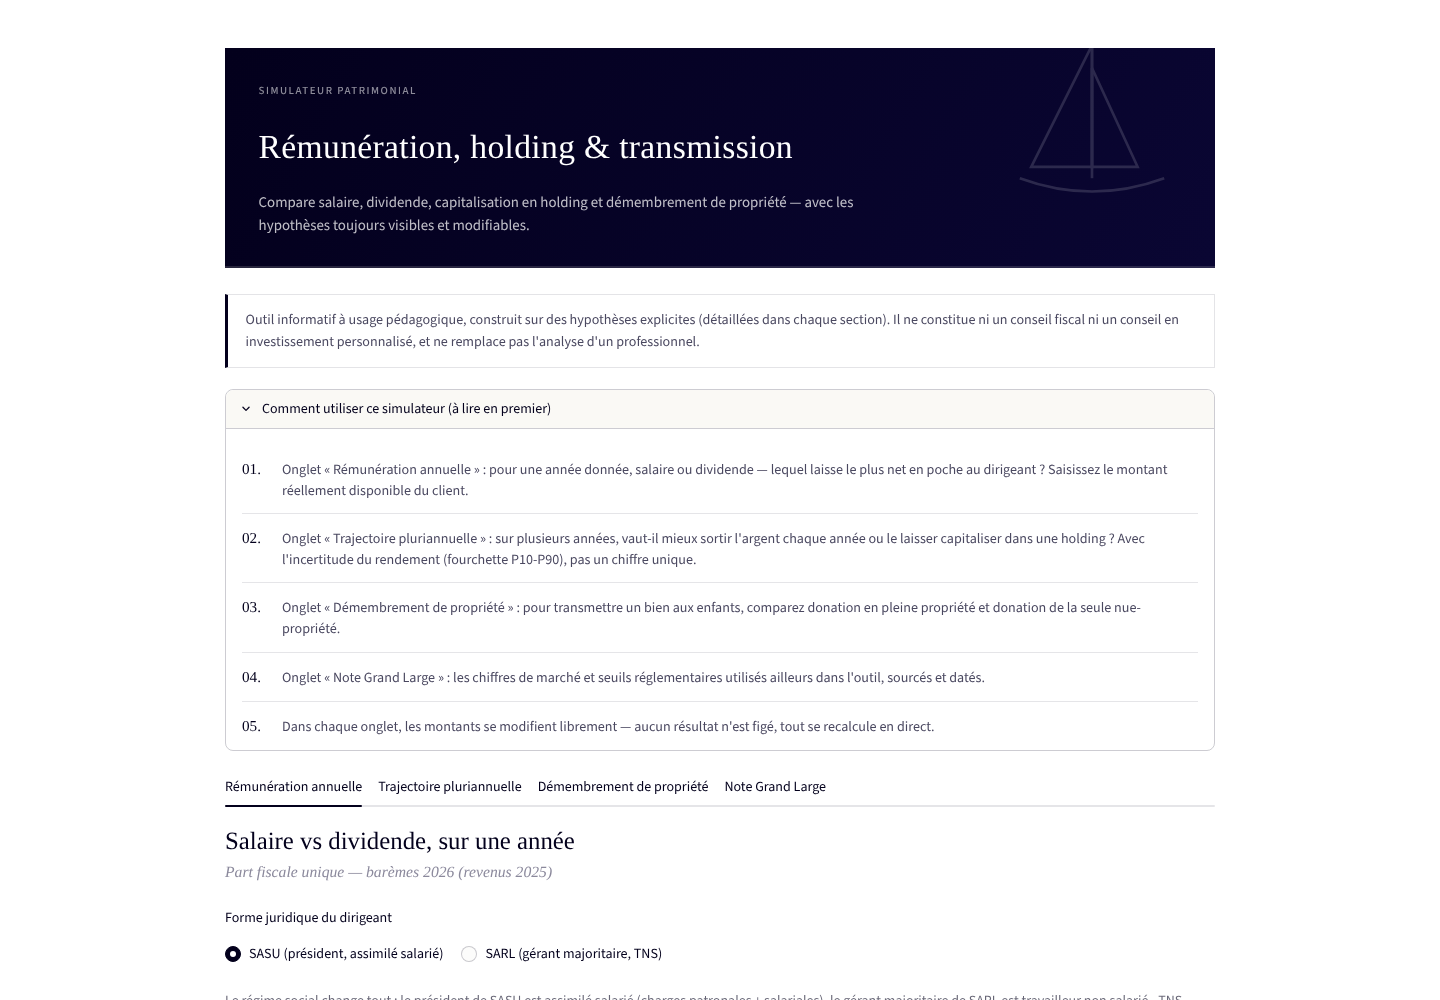
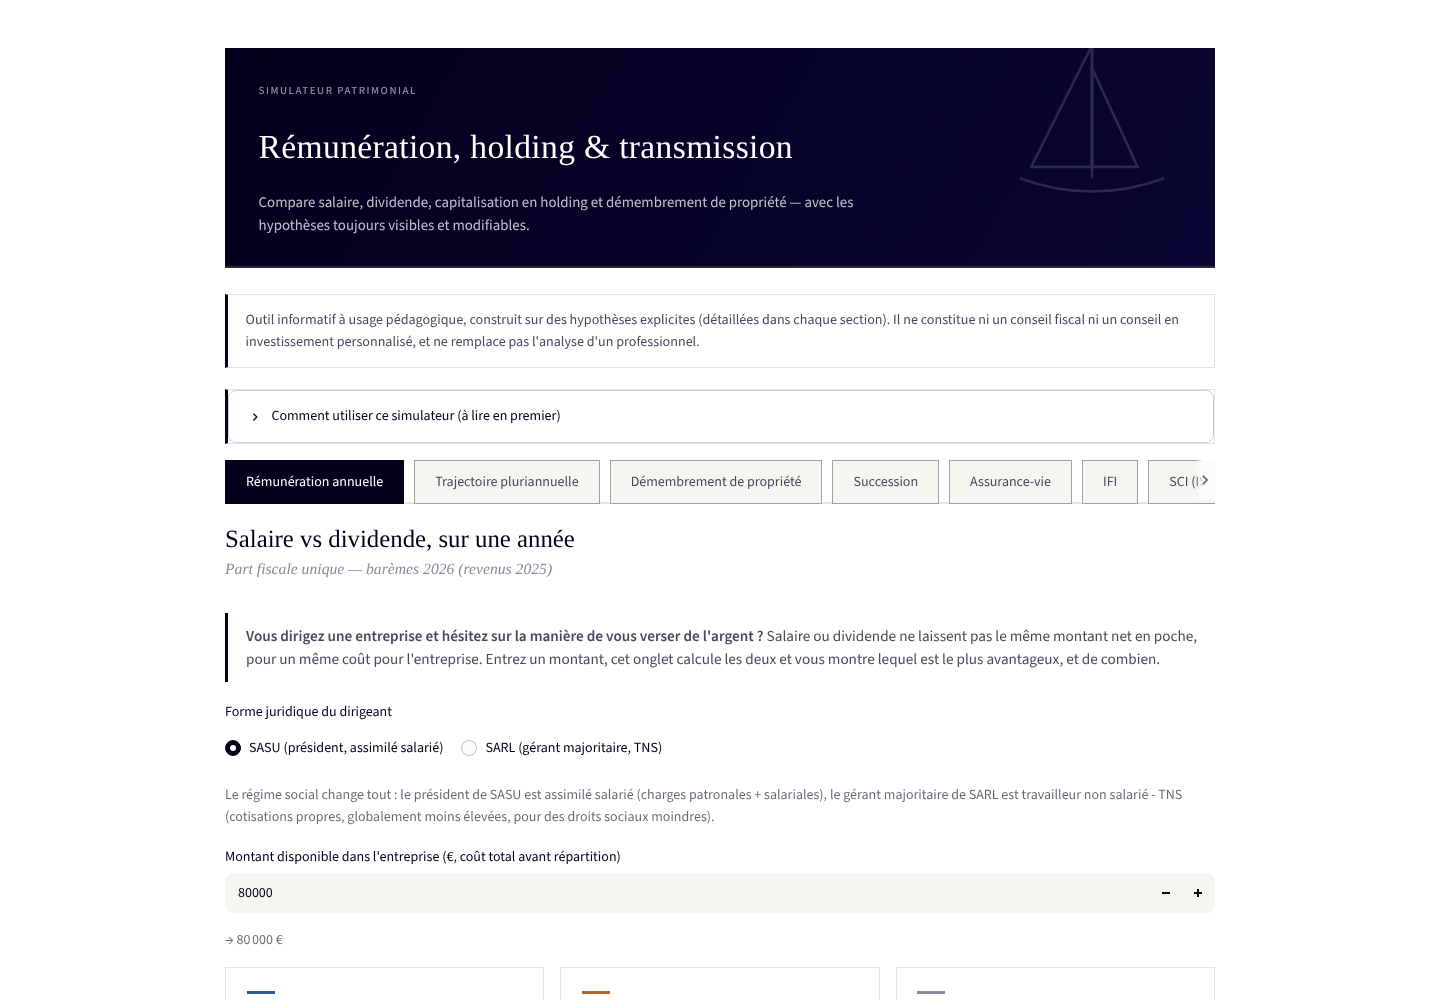
Régénère les captures d'écran pour les 9 onglets actuels
Les 4 captures existantes dataient d'avant l'ajout du cinquième
module et du nouveau style d'onglets (pastilles, texte agrandi) -
elles ne correspondaient plus à l'app réelle. Recapture les 9 onglets
dans un même état cohérent (introduction repliée pour montrer le vrai
contenu plus tôt) et ajoute les captures manquantes : succession,
assurance-vie, IFI, SCI (IS vs IR), PER. Met à jour les références
dans le README en conséquence.

Claude-Session: https://claude.ai/code/session_013d8botr14ACMNDxZSsXeTk

Changed region(s): [[0.1562, 0.403, 0.8438, 0.961], [0.1562, 0.992, 0.8125, 1.0], [0.3438, 0.93, 0.4375, 0.961]]

diff --git a/README.md b/README.md
@@ -42,22 +42,32 @@ Donation en pleine propriété vs donation de la nue-propriété (usufruit conse
 ### 4 — Succession
 Au décès (hors donation), les droits dus dépendent avant tout du lien de parenté avec le défunt : conjoint survivant ou partenaire pacsé totalement exonéré (article 796-0 bis du CGI), enfant au même barème et au même abattement de 100 000 € qu'une donation en ligne directe (réutilise directement le barème de `demembrement.py` plutôt que d'en dupliquer un second), frère/sœur (abattement de 15 932 €, 35 %/45 %), neveu/nièce (abattement de 7 967 €, taux fixe de 55 %), et tiers sans lien de parenté (abattement de 1 594 €, taux fixe de 60 %). Un graphique en barres horizontales compare, sur une même masse successorale, ce qu'il resterait net selon qui hérite — l'écart entre un conjoint (tout) et un tiers (40 % à peine) est souvent le chiffre qui parle le plus à un client.
 
+![Succession](screenshots/05_succession.png)
+
 ### 5 — Assurance-vie
 Fiscalité du rachat (retrait du vivant) et de la transmission au décès. Pour un rachat, seule la part de gains comprise dans le retrait est taxée : régime du PFU pour les versements à partir du 27/09/2017 (12,8 % avant 8 ans, 7,5 % après 8 ans dans la limite de 150 000 € de versements cumulés, 12,8 % au-delà), abattement annuel de 4 600 €/9 200 € après 8 ans, et 17,2 % de prélèvements sociaux toujours dus sans abattement. Pour la transmission, c'est l'âge du souscripteur au moment de CHAQUE versement qui détermine le régime applicable : article 990 I avant 70 ans (abattement de 152 500 € par bénéficiaire, puis 20 %/31,25 % selon le seuil de 700 000 €) ou article 757 B après 70 ans (seules les primes versées sont taxables, les gains étant intégralement exonérés, après un abattement de 30 500 € cette fois GLOBAL - partagé entre tous les bénéficiaires - puis taxation du solde au même barème progressif des droits de succession en ligne directe que le module de démembrement et de succession, réutilisé tel quel plutôt que dupliqué).
+
+![Assurance-vie](screenshots/06_assurance_vie.png)
 
 ### 6 — IFI
 Impôt sur la fortune immobilière : patrimoine immobilier net taxable (abattement de 30 % sur la résidence principale détenue en direct, dettes déductibles), seuil d'assujettissement de 1 300 000 € (en-deçà, aucun IFI, même pas sur la fraction au-dessus de 800 000 €), barème progressif à 6 tranches (article 977 du CGI) et décote qui lisse l'entrée dans l'impôt entre 1,3 M€ et 1,4 M€. Les biens professionnels (ex. une holding animatrice) sont supposés déjà exclus du montant saisi — ce module ne les qualifie pas lui-même, ce tri restant un sujet à conditions précises et souvent contentieux.
 
+![IFI](screenshots/07_ifi.png)
+
 ### 7 — SCI (IS vs IR)
 Détenir un bien locatif à travers une SCI à l'impôt sur le revenu (transparente, régime des revenus fonciers et des plus-values immobilières des particuliers, sans amortissement mais avec un abattement pour durée de détention qui exonère totalement la plus-value après 22 ans à l'IR et 30 ans pour les prélèvements sociaux) ou à l'impôt sur les sociétés (amortissement du bien déductible chaque année, sans sortie de trésorerie, mais plus-value de cession calculée sur la valeur nette comptable - donc souvent plus élevée pour un bien ancien - et double imposition dès que le résultat est distribué à l'associé, IS puis PFU). Une case à cocher bascule entre distribution immédiate chaque année et capitalisation dans la société (même logique que l'arbitrage holding de l'onglet trajectoire), et le graphique empilé distingue les revenus locatifs cumulés de la plus-value nette de cession pour chaque régime.
+
+![SCI (IS vs IR)](screenshots/08_sci.png)
 
 ### 8 — PER
 Verser sur un plan d'épargne retraite plutôt que percevoir en net : troisième levier d'arbitrage de la rémunération du dirigeant, à côté du salaire et du dividende de l'onglet 1. Plafond de déduction des versements volontaires (10 % des revenus professionnels nets dans la limite de 8 PASS pour un salarié/assimilé salarié, 10 % du bénéfice + 15 % supplémentaires entre 1 et 8 PASS - structurellement plus généreux - pour un TNS), économie d'impôt immédiate à la TMI actuelle, puis fiscalité de la sortie en capital : versements déduits taxés au barème IR à la TMI du moment (sans prélèvements sociaux) ou totalement exonérés si non déduits, gains toujours taxés au PFU de 31,4 %. Comparateur direct avec l'alternative "encaisser en net tout de suite, puis placer" à montant brut identique.
 
+![PER](screenshots/09_per.png)
+
 ### 9 — Note Grand Large (veille marchés & produits)
 Indicateurs de marché et seuils réglementaires organisés autour des 6 solutions réellement affichées sur grandlargepatrimoine.fr (placements financiers, immobilier, non coté, ingénierie fiscale du dirigeant, transmission), avec source et date pour chaque chiffre, un signal visuel sur les données à recouper avant diffusion, une ligne "en rendez-vous" par indicateur (ce qu'il change concrètement face à un client), et une checklist de rafraîchissement explicite — ce n'est pas un flux temps réel, c'est un instantané assumé comme tel. Une "règle fiscale niche du jour" (mécanismes patrimoniaux stables et sourcés, choisis pour être souvent mal connus plutôt que pour leur actualité) complète la page en rotation quotidienne.
 
-![Note Grand Large](screenshots/04_veille.png)
+![Note Grand Large](screenshots/10_veille.png)
 
 Chaque onglet (sauf la veille) propose aussi un export PDF en plus du CSV, et un glossaire dépliable des termes techniques employés (PASS, TNS, PFU, démembrement, usufruit, article 990 I, article 757 B, lien de parenté, IFI, décote, PER, TMI...), pour un lecteur non-initié.
 
